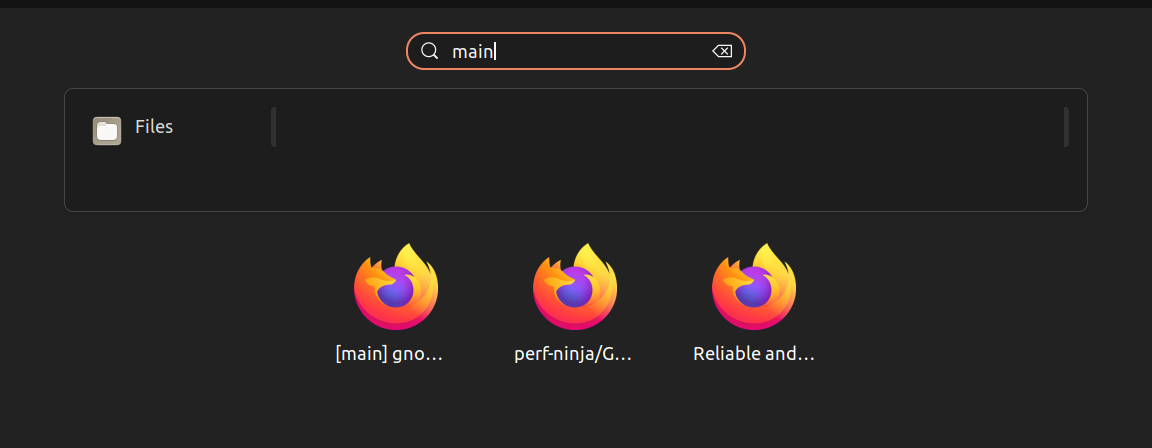
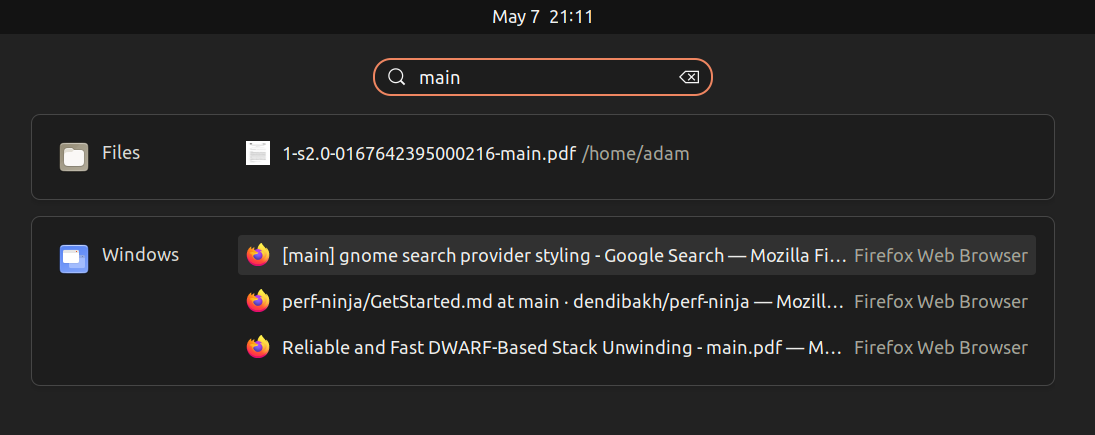
nicer display by having an appInfo thing

diff --git a/extension.ts b/extension.ts
@@ -6,10 +6,11 @@ const ExtensionUtils = imports.misc.extensionUtils;
 const Main = imports.ui.main;
 const Meta = imports.gi.Meta;
 const Shell = imports.gi.Shell;
+const Gio = imports.gi.Gio;
 
 const Me = ExtensionUtils.getCurrentExtension();
 
-const debugLogOn: boolean = false;
+const debugLogOn: boolean = true;
 
 function debugLog(str: any): void {
     if (debugLogOn) {
@@ -28,10 +29,28 @@ interface WindowInfo {
 
 class WindowSearchProvider {
     results: any;
+    appInfo: any;
 
     constructor() {
         debugLog(`constructing`);
         this.results = {};
+
+        this.appInfo = Gio.AppInfo.get_all().filter(function (appInfo) {
+            try {
+              let id = appInfo.get_id();
+              return id.match(/gnome-session-properties/);
+            }
+            catch (e) {
+              return null;
+            }
+        })[0]
+
+        this.appInfo.get_name = function () {
+          return 'Windows';
+        };
+        this.appInfo.get_description = function () {
+          return 'Open windows';
+        };
     }
 
     _windowInfo(win: any, key: string): WindowInfo  {
